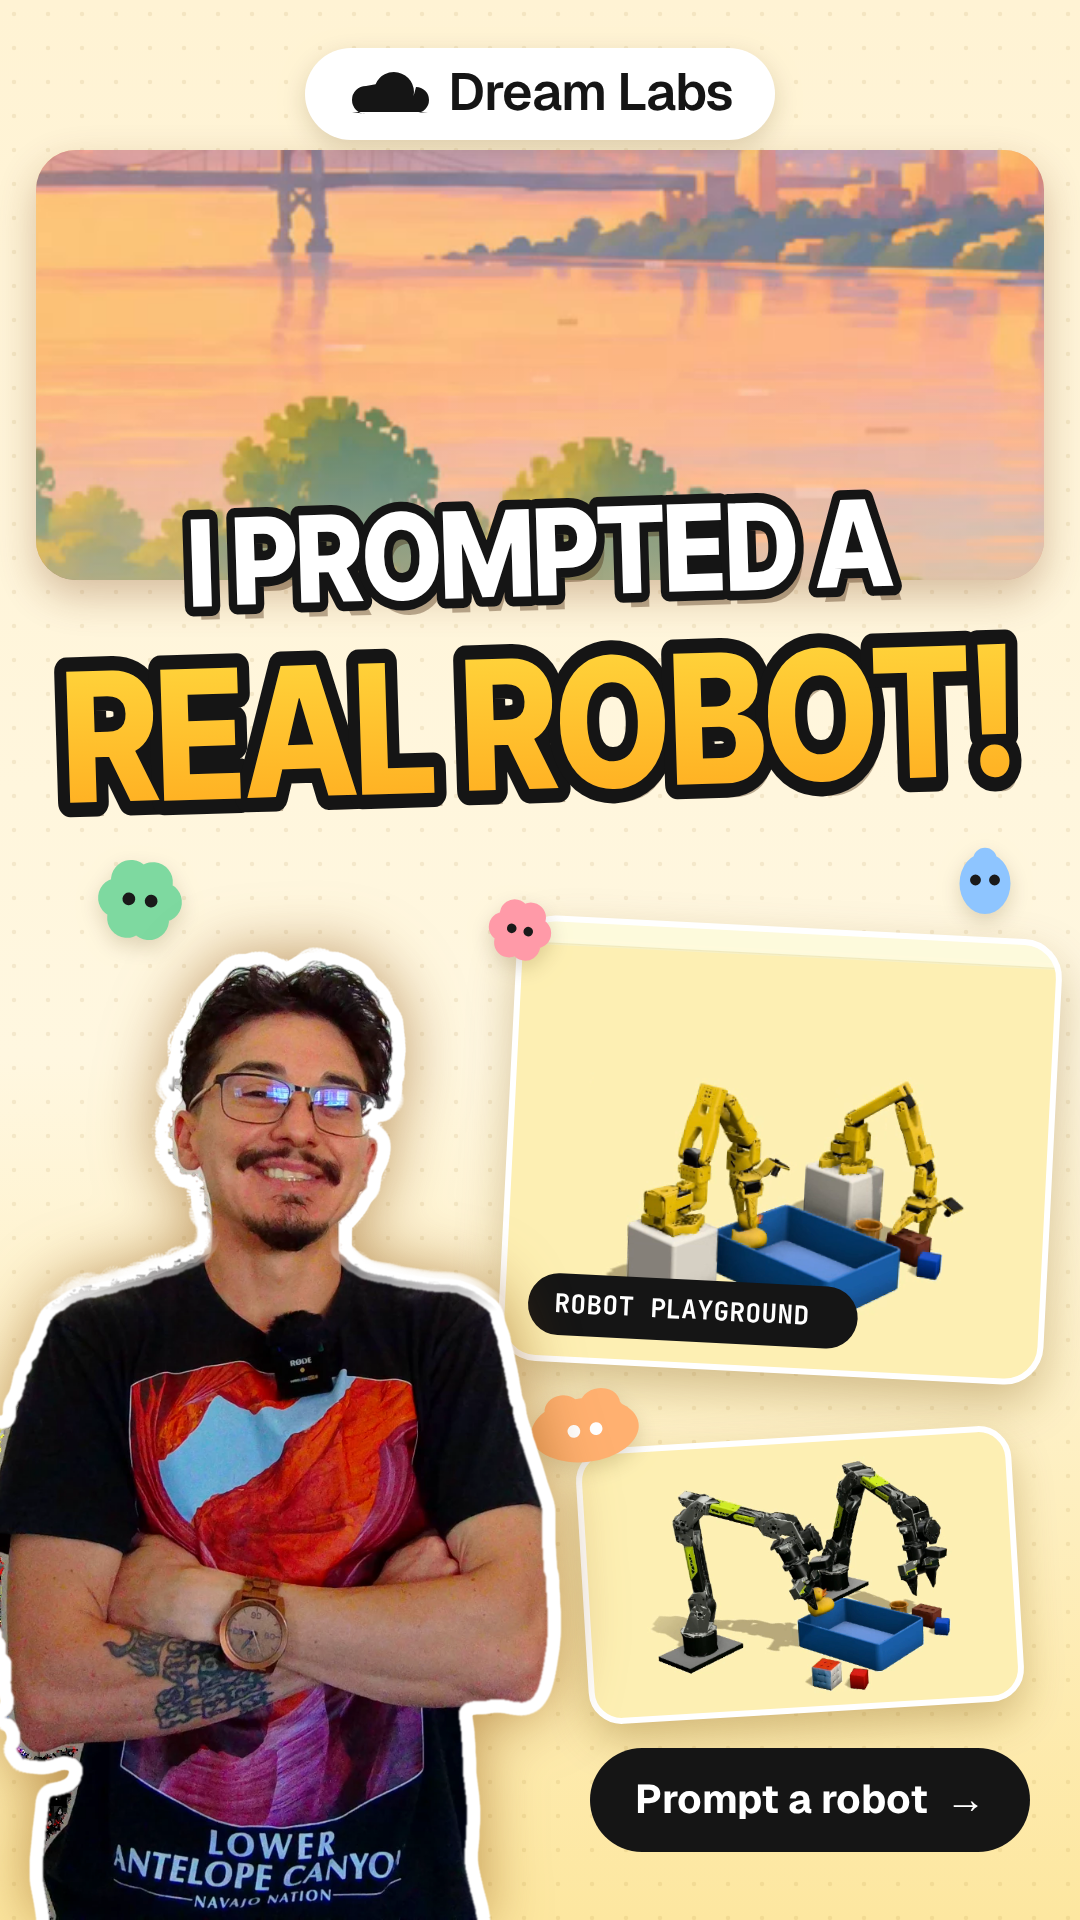
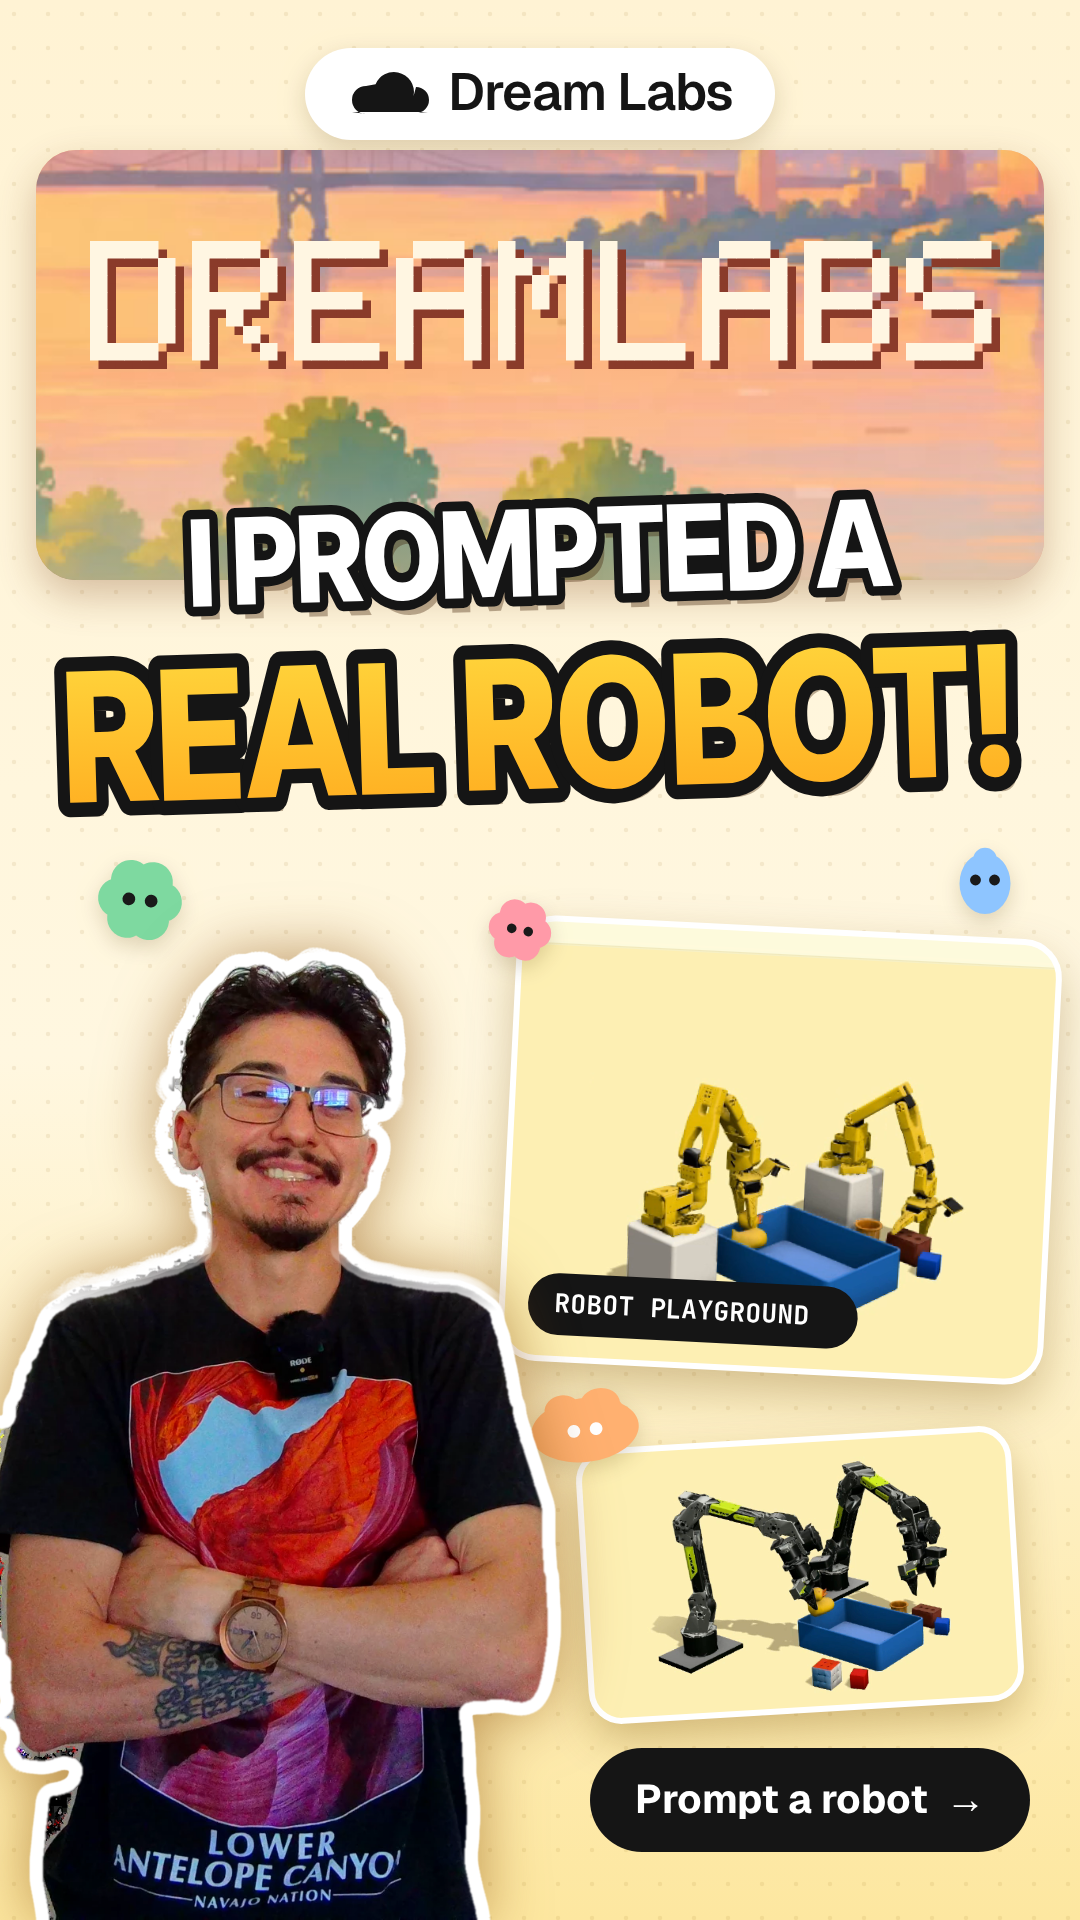
DreamLabs thumbnail: pixel-art DREAMLABS title inside the sunset card
Claude-Session: https://claude.ai/code/session_01NSJvdmHsHoazKiuuGVQfMY

Changed region(s): [[0.0611, 0.125, 0.9472, 0.2188]]

diff --git a/story/dreamlabs/thumb.html b/story/dreamlabs/thumb.html
@@ -32,6 +32,15 @@
   const bx = 36, by = 150, bw = W - 72, bh = 430; c.save(); c.shadowColor = 'rgba(120,60,20,0.3)'; c.shadowBlur = 40; c.shadowOffsetY = 16; rr(bx, by, bw, bh, 40); c.fillStyle = '#F8B98A'; c.fill(); c.restore();
   c.save(); rr(bx, by, bw, bh, 40); c.clip(); const sc = Math.max(bw / sun.width, bh / sun.height); c.imageSmoothingQuality = 'high'; c.drawImage(sun, bx + (bw - sun.width * sc) / 2, by + (bh - sun.height * sc) / 2, sun.width * sc, sun.height * sc);
   const fade = c.createLinearGradient(0, by + bh * 0.5, 0, by + bh); fade.addColorStop(0, 'rgba(255,230,190,0)'); fade.addColorStop(1, 'rgba(255,214,150,0.55)'); c.fillStyle = fade; c.fillRect(bx, by, bw, bh); c.restore();
+  // ---- pixel-art "DREAMLABS" in the sunset card: 5×7 bitmap letters drawn as blocks, with a pixel drop shadow
+  const PX = { D: ['11110','10001','10001','10001','10001','10001','11110'], R: ['11110','10001','10001','11110','10100','10010','10001'],
+    E: ['11111','10000','10000','11110','10000','10000','11111'], A: ['01110','10001','10001','11111','10001','10001','10001'],
+    M: ['10001','11011','10101','10101','10001','10001','10001'], L: ['10000','10000','10000','10000','10000','10000','11111'],
+    B: ['11110','10001','10001','11110','10001','10001','11110'], S: ['01111','10000','10000','01110','00001','00001','11110'] };
+  const pixWord = (s, cx, cy, u) => { const adv = 6 * u, w = s.length * adv - u, x0 = Math.round(cx - w / 2), y0 = Math.round(cy - 3.5 * u);
+    const pass = (dx, dy, col) => { c.fillStyle = col; [...s].forEach((ch, i) => PX[ch].forEach((row, r) => [...row].forEach((b, k) => { if (b === '1') c.fillRect(x0 + i * adv + k * u + dx, y0 + r * u + dy, u + 0.5, u + 0.5); }))); };
+    pass(u * 0.5, u * 0.5, '#8A3B2A'); pass(0, 0, '#FFF6E2'); };
+  c.save(); rr(bx, by, bw, bh, 40); c.clip(); pixWord('DREAMLABS', W / 2, by + 150, 17); c.restore();
   // ---- Dream Labs pill (cloud mark + wordmark)
   c.save(); const pw = 470; rr(W / 2 - pw / 2, 48, pw, 92, 46); c.fillStyle = '#fff'; c.shadowColor = 'rgba(80,50,0,0.18)'; c.shadowBlur = 24; c.shadowOffsetY = 8; c.fill(); c.restore();
   c.save(); c.translate(W / 2 - 150, 98); c.fillStyle = INK; c.beginPath(); c.moveTo(-38, 14); c.lineTo(38, 14); c.arc(26, 2, 13, Math.PI / 2, -Math.PI / 2, true); c.arc(4, -6, 20, 0.2, Math.PI + 0.4, true); c.arc(-24, 2, 14, -Math.PI / 2, Math.PI / 2, true); c.closePath(); c.fill(); c.restore();
